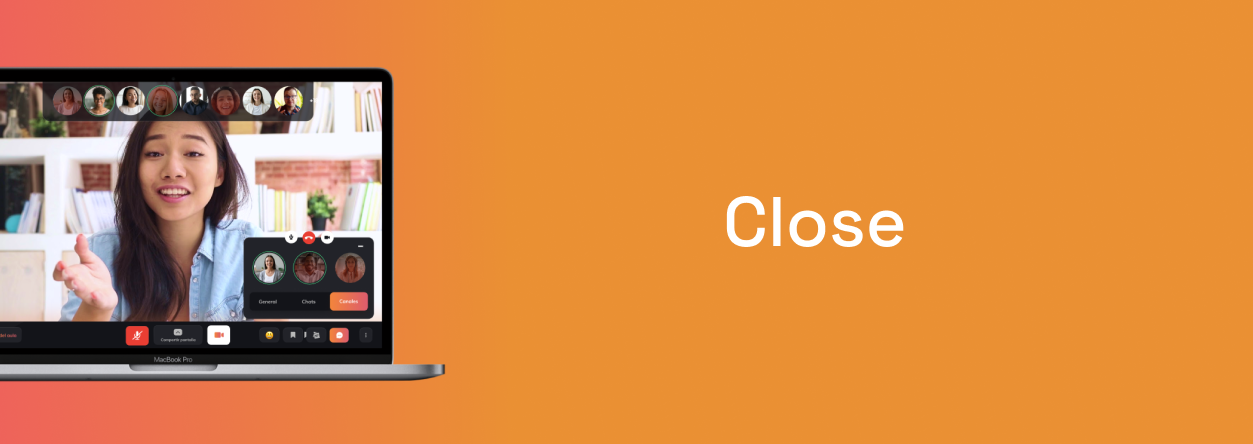
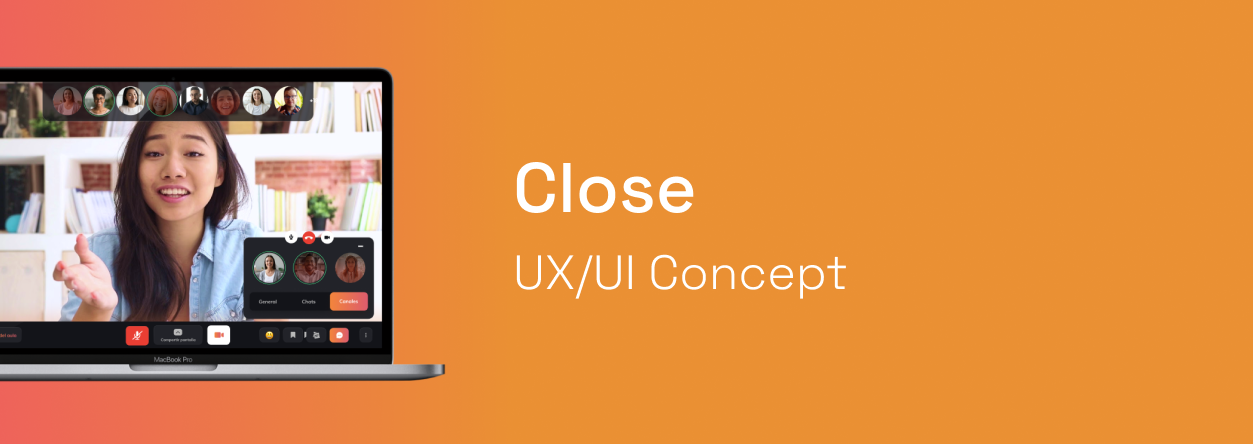
added info for NIL

Changed region(s): [[0.4046, 0.3514, 0.747, 0.5563], [0.4046, 0.5563, 0.6848, 0.6734]]

diff --git a/src/App.tsx b/src/App.tsx
@@ -14,6 +14,8 @@ import { Contact } from './Components/Contact/Contact';
 //BannersAndImages
 
 //NewImageLabs
+import bannerNil from './assets/Images/NILProject/BannerDesignNIL.png';
+import bannerNilThumb from './assets/Images/NILProject/BannerThumbnailNIL.png';
 
 
 
@@ -84,30 +86,30 @@ function App() {
       title: 'New Image Labs',
       subtitle:'E-commerce websites built with Shopify',
       role: 'UX/UI, Frontend Developer, Shopify Developer ',
-      tasks: 'I was in charge of designing, developing and managing 2 e-commerce websites for the company, where they sell products for hair care and hair replacement.  ',
-      tasks2: 'The goal was to impulse their brands in the digital medium to B2B and B2C customers, creating different userflows and experiences depending on the type of customer',
+      tasks: 'I was responsible for designing, developing, and leading a team of developers while also actively contributing to the development of two e-commerce websites for the company, which specialize in hair care and hair replacement products. ',
+      tasks2: 'The goal was to elevate their brands in the digital space, catering to both B2B and B2C customers with distinct user experiences. One brand targeted individuals and stylists interested in hair care, while the other focused on salons and older clients seeking hair replacement solutions.',
       date:'April 2024-Present',
       listTitle1:'Researching and Designing',
-      list1:'To have a clear understanding of concepts, we read academic papers, articles and interviewed teachers specialized in the topic',
+      list1:'Conducted in-depth competitor analysis and collaborated with various departments—including sales, marketing, and warehouse teams—to understand internal workflows. This allowed me to identify opportunities for e-commerce integration and automation, ensuring a seamless connection between online operations and internal processes.',
       listTitle2:'Developing with Shopify',
-      list2:'Utilizing my knowledge in Frontend Development (React, HTML, JS, CSS) and learning how to use Shopify Liquid, I was able to create unique userflows for both types of customers, connect with e-mail marketing certain user actions when triggered on the website and create customized designs"',
-      listTitle3:'Connecting website with Amazon and Social Media',
-      list3:'With E-commerce it is vital to have the digital landscape interconnected so potential clients can find the products easily, information, and move them to the decision to buy',
-      listTitle4:'Innovative funcionalities',
-      list4:'We integrated functionalities that would help the student concentrate in class and also have a social interaction similar to in-person classes.',
-      bannerImg: bannerClose,
-      bannerThumbnail: bannerCloseThumb,
+      list2:'Utilized frontend skills (React, HTML, JS, CSS) while mastering Shopify Liquid to create unique user flows, customized interfaces and trigger automations .',
+      listTitle3:'E-commerce Integrations',
+      list3:'Connected the website with Amazon and social media platforms, ensuring a seamless digital presence to drive discovery, engagement, and conversions.',
+      listTitle4:'Innovative Features',
+      list4:'Developed functionalities to support both B2B and B2C operations, seamlessly integrating online sales with the sales team. This ensured a smooth workflow for order processing, client management, and communication between digital and physical sales channels.',
+      bannerImg: bannerNil,
+      bannerThumbnail: bannerNilThumb,
       subtitle1: 'Investigation and Userflows',
-      paragraph1: 'Before tackling any project, I always find the time to investigate internally and externally to understand the product, the necessities, the stakeholders goals and the competition in the market. Based on this research, that I keep documented in Notion, I can create userflows, connecting digital and physical touchpoints, ensuring that everything needed for Sales and Warehouse works seamlessly, while always working to better the clients experience.',
+      paragraph1: 'Before development, I conducted thorough internal and external research to understand the product, business goals, and market competition. Since the company caters to both B2B (salons and cosmetologists) and B2C (retail customers), I mapped out distinct user flows tailored to each segment. Using Notion, I documented key insights and designed workflows that connected digital and physical touchpoints, ensuring seamless integration between sales, warehouse operations, and website sales. Additionally, I continuously sought to enhance the overall user experience by researching and strategizing automation solutions, setting a clear plan for developers to implement through SAP, third-party apps, and custom coding to streamline processes and improve efficiency.',
       image1: userflowClose,
       subtitle2: 'The process of Designing',
-      paragraph2: 'Due to the nature of the company, testing was limited to internal. When creating a new page for a userflow, or promotion of a new sale, I would wireframe what was needed, later designing with the color palette and branding. If needed, I would also help take and edit the photos needed for the design I proposed. ',
+      paragraph2: 'Due to the company’s structure, user testing was conducted internally. When designing new pages or promotional content, I started with wireframes in Figma, followed by high-fidelity designs that aligned with the brand’s color palette and identity. Additionally, I assisted in aligning marketing materials and email marketing designs to ensure brand consistency across all digital channels. I also contributed by taking and editing product photos with the marketing team. ',
       image2: userClose,
       subtitle3: 'Implementing the Design',
-      paragraph3: 'Since Shopify utilizes its own language Liquid and HTML, JS and CSS, I would use this to create new the design approved, ensuring that it was functional and responsive. If needed, I would also create new Componentes to add to the Theme of the project. If needed I would make the right connections with Flow or third party apps and always test before publishing to the live website.',
+      paragraph3: 'Shopify’s unique templating language, Liquid, along with HTML, JavaScript, and CSS, allowed me to develop fully responsive and functional designs. I built custom components with Liquid to enhance the theme and meet the company’s needs for both B2B and B2C commerce within a single platform. Additionally, I integrated automations using Shopify Flow and third-party apps, enabling seamless communication between customers and internal users to streamline workflows and improve operational efficiency.',
       image3: wireframes,
       subtitle4: 'Results and key takeways',
-      paragraph4: 'Being able to bring to life my designs and userflows, was quite fun utilizing Shopify and learning more about it along the way. Working with the marketing team and sales was also very important and allowed me to create better experiences for clients on the website. I also got to give my input to the promotions, social media posts and e-mail marketing, integrating touchpoints to lead to the website and increase online sales.',
+      paragraph4: 'Bringing my designs and user flows to life with Shopify was an exciting and rewarding experience. Collaborating with the marketing and sales teams helped refine customer journeys and improve overall engagement. Additionally, I contributed ideas for promotions, social media strategies, and email marketing campaigns, aligning all touchpoints to drive traffic and increase online sales.Beyond design and development, I also optimized the website’s SEO and Google ranking by refining product descriptions, enhancing images, and implementing SEO best practices. Using tools like Google Analytics and Semrush, I continuously monitored performance metrics, identifying opportunities to improve visibility and drive organic traffic.',
       image4: journeyclose,
       image5:finalsclose,
       image6: mockupfinal
@@ -120,7 +122,7 @@ function App() {
       role: 'Product design, User research, Design System',
       tasks: 'For a fintech startup that focuses on international commerce, after receiving a re-branding, a design system and re-design were needed for the platform, where clients can track, finance and analyze their imports.',
       tasks2: 'I worked with a team of two other designers to create the user experience and connect all their services on the platform, creating the design system and delivering final designs.',
-      date:'July 2023 - Present',
+      date:'July 2023 - April 2024',
       listTitle1:'Establishing a design system',
       list1:'This helped the Developer and Product teams have a consisten look and feel across different products.',
       listTitle2:'Improved usability and navigation',
